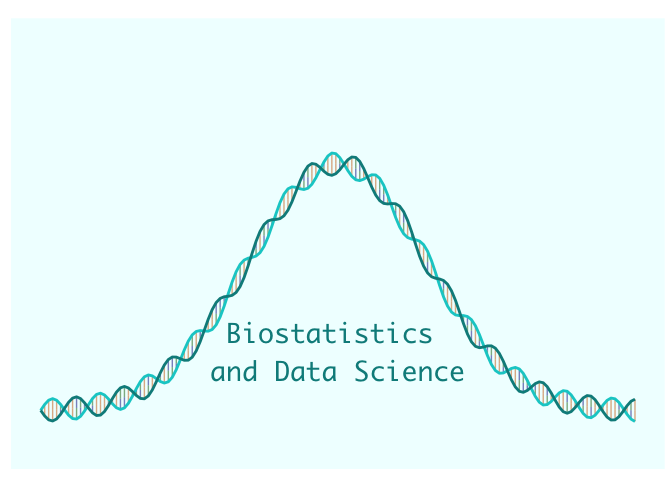
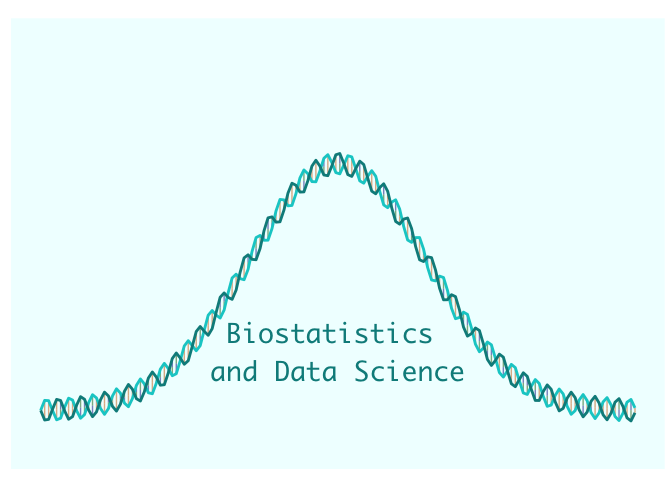
edited README

Changed region(s): [[0.0625, 0.3125, 0.9688, 0.9062]]

diff --git a/README.md b/README.md
@@ -84,7 +84,7 @@ p1 = generate_plot(Norm=T, #Logical: Show normal distribution
                    norm_vals = c(4, 1.2), #vector of mean and sd for Normal dist (ignored if Norm=F)
                    chisq_vals = c(3,0 ), #vector of DF and non centrality for chi-sq (Ignored if Chisq=F)
                    amp=0.015,  #amplitude of SIN wave to create double helix; adjusts height of strand
-                    freq=10, #frequency of SIN wave to create double helix; adjusts width of strands
+                   freq=20, #frequency of SIN wave to create double helix; adjusts width of strands
                    bp_density = 200, #how dense the base-pairs between strands appear (200 is default; higher = more dense)
                    xlims= c(0,8), # vector of min and max x-values for distribution generation and plot
                    ylims= c(-0.05, .5),  #vector of y limits for height of plot
@@ -105,39 +105,8 @@ and here is the plot:
 
 </center>
 
-Now let’s space out the base-pairs segments a little bit by lessening
-the “bp_density” parameter from 200 to 150
-
-``` r
-# Generate Plot
-p1 = generate_plot(Norm=T, #Logical: Show normal distribution
-                   Chisq=F, #Logical: show Chi-Square distribution
-                   norm_vals = c(4, 1.2), #vector of mean and sd for Normal dist (ignored if Norm=F)
-                   chisq_vals = c(3,0 ), #vector of DF and non centrality for chi-sq (Ignored if Chisq=F)
-                   amp=0.015,  #amplitude of SIN wave to create double helix; adjusts height of strand
-                    freq=10, #frequency of SIN wave to create double helix; adjusts width of strands
-                   bp_density = 150, #how dense the base-pairs between strands appear (200 is default; higher = more dense)
-                   xlims= c(0,8), # vector of min and max x-values for distribution generation and plot
-                   ylims= c(-0.05, .5),  #vector of y limits for height of plot
-                   text="Biostatistics \nand Data Science",  #optional text to add to plot
-                   text_pos = c(4,.08), #vector of (x,y) coordinates for text on plot
-                   text_size=7
-                   #helix_cols = c("cyan3", "cyan4", "firebrick2", "firebrick4"), #color of helix strands
-                   #basepair_cols = c("darkorange3", "darkred", "darkblue", "darkgreen"), #color of basepairs connections
-                   #background_col = 'azure1'
-                   )
-```
-
-and here is the plot:
-
-<center>
-
-![](README_files/figure-gfm/plot3b-1.png)<!-- -->
-
-</center>
-
-And lastly, let’s say we want the height of the strand to increase, we
-can increase the amplitude parameter ‘amp’ from 0.015 to 0.030.
+Now, let’s say we want the height of the strand to increase, we can
+increase the amplitude parameter ‘amp’ from 0.015 to 0.030.
 
 ``` r
 # Generate Plot
@@ -164,5 +133,37 @@ and here is the plot:
 <center>
 
 ![](README_files/figure-gfm/plot4-1.png)<!-- -->
+
+</center>
+
+At last, let’s say we want the base-pair segments between strands to
+appear less dense. We edit the “bp_density” parameter, reducing it from
+200 to 150 to change this:
+
+``` r
+# Generate Plot
+p1 = generate_plot(Norm=T, #Logical: Show normal distribution
+                   Chisq=F, #Logical: show Chi-Square distribution
+                   norm_vals = c(4, 1.2), #vector of mean and sd for Normal dist (ignored if Norm=F)
+                   chisq_vals = c(3,0 ), #vector of DF and non centrality for chi-sq (Ignored if Chisq=F)
+                   amp=0.03,  #amplitude of SIN wave to create double helix; adjusts height of strand
+                    freq=10, #frequency of SIN wave to create double helix; adjusts width of strands
+                   bp_density = 150, #how dense the base-pairs between strands appear (200 is default; higher = more dense)
+                   xlims= c(0,8), # vector of min and max x-values for distribution generation and plot
+                   ylims= c(-0.05, .5),  #vector of y limits for height of plot
+                   text="Biostatistics \nand Data Science",  #optional text to add to plot
+                   text_pos = c(4,.08), #vector of (x,y) coordinates for text on plot
+                   text_size=7
+                   #helix_cols = c("cyan3", "cyan4", "firebrick2", "firebrick4"), #color of helix strands
+                   #basepair_cols = c("darkorange3", "darkred", "darkblue", "darkgreen"), #color of basepairs connections
+                   #background_col = 'azure1'
+                   )
+```
+
+and here is the plot:
+
+<center>
+
+![](README_files/figure-gfm/plot4b-1.png)<!-- -->
 
 </center>
